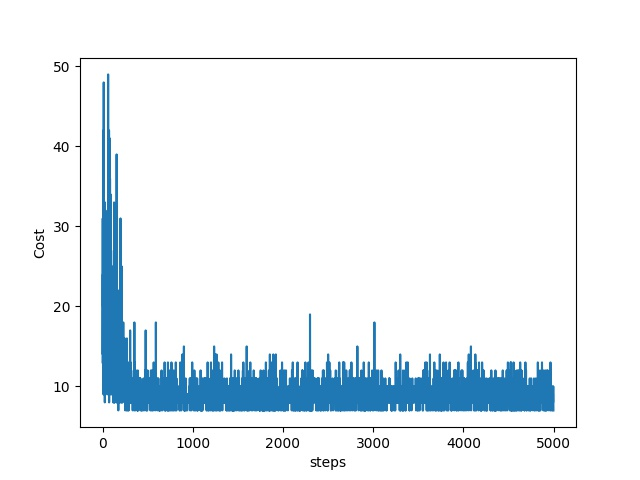
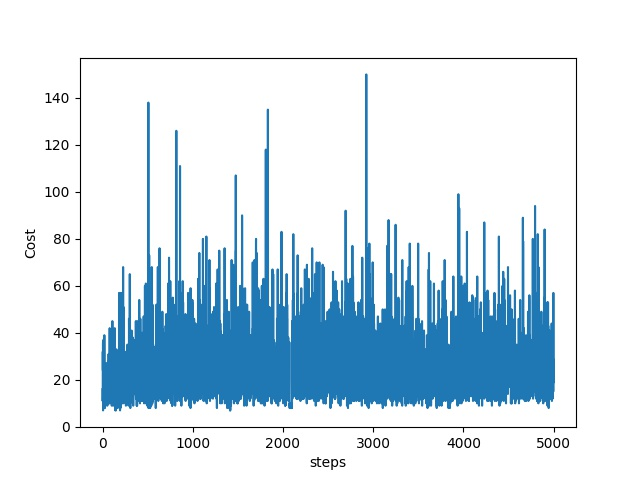
dqn

diff --git a/DQN/DQN_tensorflow/dqn.py b/DQN/DQN_tensorflow/dqn.py
@@ -46,38 +46,39 @@ class DeepQ:
 
         # build the evaluate network
         with tf.variable_scope("eval_net"):
-            e1 = tf.layers.dense(self.s, 20, tf.nn.relu, 
-                    kernel_initializer=w_initlizer, bias_initializer=b_initlizer, name="e1")
-            self.q_eval = tf.layers.dense(e1, self.action_space,
-                    kernel_initializer=w_initlizer, bias_initializer=b_initlizer, name="q")\
+            e1 = tf.layers.dense(self.s, 24, tf.nn.tanh, kernel_initializer=w_initlizer, bias_initializer=b_initlizer, name="e1")
+            e2 = tf.layers.dense(e1, 24, tf.nn.tanh, kernel_initializer=w_initlizer, bias_initializer=b_initlizer, name="e2")
+            self.q_eval = tf.layers.dense(e2, self.action_space, kernel_initializer=w_initlizer, bias_initializer=b_initlizer, name="q")
 
         # build the target network
         with tf.variable_scope("target_network"):
-            t1 = tf.layers.dense(self.s_, 20, tf.nn.relu, 
-                    kernel_initializer=w_initlizer, bias_initializer=b_initlizer, name="t1")
-            self.q_next = tf.layers.dense(t1, self.action_space,
-                    kernel_initializer=w_initlizer, bias_initializer=b_initlizer, name="q_next")
+            t1 = tf.layers.dense(self.s_, 24, tf.nn.tanh, kernel_initializer=w_initlizer, bias_initializer=b_initlizer, name="t1")
+            t2 = tf.layers.dense(t1, 24, tf.nn.tanh, kernel_initializer=w_initlizer, bias_initializer=b_initlizer, name="t2")
+            self.q_next = tf.layers.dense(t2, self.action_space, kernel_initializer=w_initlizer, bias_initializer=b_initlizer, name="q_next")
         
         with tf.variable_scope("q_target"):
-            q_target = self.r + self.discountFactor * tf.reduce_max(self.q_next, axis=1, name="Qmax_s_")
-            self.q_target = tf.stop_gradient(q_target)
+            self.q_target = self.r + self.discountFactor * tf.reduce_max(self.q_next, axis=1, name="Qmax_s_")
+            self.q_target = tf.stop_gradient(self.q_target)
 
         with tf.variable_scope("q_evaluate"):
-            a_indices = tf.stack([tf.range(tf.shape(self.a)[0],dtype=tf.int32),self.a],axis=1)
-            self.q_eval_wrt_a = tf.gather_nd(params=self.q_eval, indices=a_indices)
+            self.a_indices = tf.stack([tf.range(tf.shape(self.a)[0],dtype=tf.int32),self.a],axis=1)
+            self.q_eval_wrt_a = tf.gather_nd(params=self.q_eval, indices=self.a_indices)
 
         with tf.variable_scope("loss"):
             self.loss = tf.reduce_mean(tf.squared_difference(self.q_target, self.q_eval_wrt_a), name="loss")
+#            self.loss = tf.reduce_mean(tf.squared_difference(self.q_target, self.q_eval), name="loss")
 
         with tf.variable_scope("train"):
             self._train_op = tf.train.AdamOptimizer(self.learningRate).minimize(self.loss)
         
     def updateTargetNetwork(self):
         self.sess.run(self.target_replace_op)
-        print('update target network')
+#        print('update target network')
 
     def getQValues(self,state):
-        predicted = self.sess.run(self.q_next,feed_dict={self.s_ : state})
+#        predicted = self.sess.run(self.q_next,feed_dict={self.s_ : state})
+        predicted = self.sess.run(self.q_eval,feed_dict={self.s : state})
+        return predicted
 
     def getMaxIndex(self, qValues):
         return np.argmax(qValues)
@@ -86,6 +87,7 @@ class DeepQ:
     def selectAction(self, qValues, explorationRate):
         rand = random.random()
         if rand < explorationRate :
+#        if rand < 0.1 :
             action = np.random.randint(0, self.action_space)
         else :
             action = self.getMaxIndex(qValues)
@@ -104,14 +106,16 @@ class DeepQ:
 
         state_batch,action_batch,reward_batch,newState_batch,isFinal_batch\
         = self.memory.getMiniBatch(miniBatchSize)
-        
-        
+       
+#        print("self.a_indices:", self.a_indices.eval({self.a : reward_batch}, session = self.sess))
+
+
         _, cost = self.sess.run([self._train_op, self.loss],
                                 feed_dict={
-                                    self.s : state_batch,
-                                    self.a : action_batch,
-                                    self.r : reward_batch,
-                                    self.s_: newState_batch,
+                                    self.s : np.array(state_batch),
+                                    self.a : np.array(action_batch),
+                                    self.r : np.array(reward_batch),
+                                    self.s_: np.array(newState_batch),
                                     })
 
 
@@ -127,5 +131,6 @@ class DeepQ:
     def feedforward(self,observation,explorationRate):
 #        observation = observation[np.newaxis,:]
         qValues = self.getQValues(observation)
+#        print(qValues)
         action = self.selectAction(qValues, explorationRate)
         return action

diff --git a/DQN/DQN_tensorflow/run.py b/DQN/DQN_tensorflow/run.py
@@ -7,12 +7,13 @@ from constants import *
 from gym import wrappers
 from measure import *
 from collections import namedtuple
+import tensorflow as tf
 
 if __name__ == '__main__':
+    tf.set_random_seed(12)
     env = gym.make(ENV_NAME)
     env = env.unwrapped
-    input_shape=[1,4]
-    env.rendering = SHOW
+
     action_space=env.action_space.n
     obs_space=env.observation_space.shape
     explorationRate = INITIAL_EPSILON
@@ -24,6 +25,8 @@ if __name__ == '__main__':
     
     rec = record(episode_lengths=np.zeros(MAX_EPOCHS),
                           episode_rewards=np.zeros(MAX_EPOCHS))
+    total_action0 =0
+    total_action1 =0
 
     for epoch in range(MAX_EPOCHS):
         obs = env.reset()
@@ -34,12 +37,25 @@ if __name__ == '__main__':
                  < LEARN_START_STEP) and TRAIN is True :  # explore
             EXPLORE = True
         else:
-            EXPLORE = False
-            print ("Evaluate Model")
-        for t in range(1000):
+            EXPLORE = True
+#            print ("Evaluate Model")
+        done = False
+        action_0 = 1
+        action_1 =1
+    
+        while True:
+            if cumulated_reward >100:
+                env.render()
             step += 1
             if EXPLORE is True: 
                  action = Agent.feedforward(observation, explorationRate)
+                 if action == 0:
+                     action_0 += 1
+                     total_action0 += 1
+                 else:
+                     action_1 += 1
+                     total_action1 += 1
+
                  obs_new, reward, done, info = env.step(action)
                  newObservation = obs_new[np.newaxis,:]
                  stepCounter += 1
@@ -64,8 +80,11 @@ if __name__ == '__main__':
         
         rec.episode_lengths[epoch] = step 
         rec.episode_rewards[epoch] += cumulated_reward
-        
-        print("This is epoch:",epoch," and the cumulated_reward is :",cumulated_reward)
+        if cumulated_reward >50 or epoch % 1000 ==0: 
+            size = Agent.getMemorySize()
+            totalactionrate = float(total_action0/total_action1)
+            print("This is epoch: {}, reward: {}, action: {}/{}, total action: {}/{},rate:{}".format(
+                epoch, cumulated_reward, action_0, action_1,total_action0, total_action1, totalactionrate))
     figname=ENV_NAME+str(MAX_EPOCHS)+".jpg"
     plot_and_save(reward_history,MONITOR_DIR,figname)
     

diff --git a/DQN/DQN_tensorflow/constants.py b/DQN/DQN_tensorflow/constants.py
@@ -9,14 +9,14 @@ SHOW = False # show the current state, reward and action
 MAP = False # show the trajectory in 2d map
 
 TF_DEVICE = '/gpu:0'
-MAX_EPOCHS = 2000 # max episode number
-MEMORY_SIZE = 5000
-LEARN_START_STEP = 1000
+MAX_EPOCHS = 5000 # max episode number
+MEMORY_SIZE = 50000
+LEARN_START_STEP = 2000
 INPUT_SIZE = 84
-BATCH_SIZE = 16
-LEARNING_RATE = 1e-3  # 1e6
+BATCH_SIZE = 64
+LEARNING_RATE = 1  # 1e6
 GAMMA = 0.95
-INITIAL_EPSILON = 1  # starting value of epsilon
+INITIAL_EPSILON = 0.9  # starting value of epsilon
 FINAL_EPSILON = 0.1  # final value of epsilon
 MAX_EXPLORE_STEPS = 5000
 TEST_INTERVAL_EPOCHS = 10000
